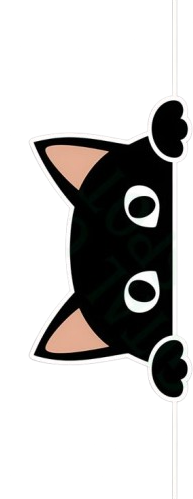
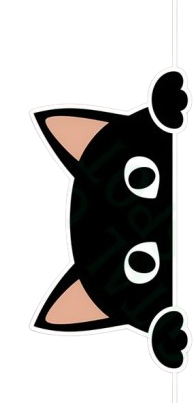
Update imports to use .mjs files, adjust layout overflow properties, and enhance game prompt text

Changed region(s): [[0.1554, 0.1787, 0.9948, 0.9231], [0.6218, 0.3573, 0.8394, 0.5062], [0.8083, 0.2978, 0.9326, 0.3275]]

diff --git a/app/page.tsx b/app/page.tsx
@@ -274,7 +274,7 @@ export default function Home() {
     }
 
   return (
-    <div className="flex flex-col items-center justify-center w-screen h-screen overflow-hidden bg-gradient-to-tl from-black via-zinc-600/20 to-black">
+    <div className="!overflow-hidden flex flex-col items-center justify-center w-screen h-screen overflow-hidden bg-gradient-to-tl from-black via-zinc-600/20 to-black">
       <CustomCursor />
       <NextTopLoader />
       <BlackHoleCanvas loading={loading} />
@@ -304,14 +304,14 @@ export default function Home() {
       </div>
 
       <div
-        className="absolute -bottom-8 -right-2"
+        className="absolute -bottom-0 -right-2"
         onClick={PlayGame}
         style={{ cursor: "pointer" }}
         id="cat-peeking-container"
       >
         {/* Message Bubble */}
-        <p className="absolute -top-14 right-2 w-16 !text-[16px] text-zinc-500 sm:text-base md:text-lg animate-fade-in ">
-          Want to Play A Game?
+        <p className="absolute -top-10 right-2 w-24 !text-[16px] text-zinc-500 sm:text-base md:text-lg animate-fade-in ">
+          Wanna play a game? 🐾
         </p>
         <img
           id="cat-peeking-image"

diff --git a/app/layout.tsx b/app/layout.tsx
@@ -261,7 +261,7 @@ export default function RootLayout({
       </head>
       <body
         className={`bg-black
-          overflow-hidden
+          overflow-x-hidden
           ${
           process.env.NODE_ENV === "development" ? "debug-screens" : undefined
         }`}